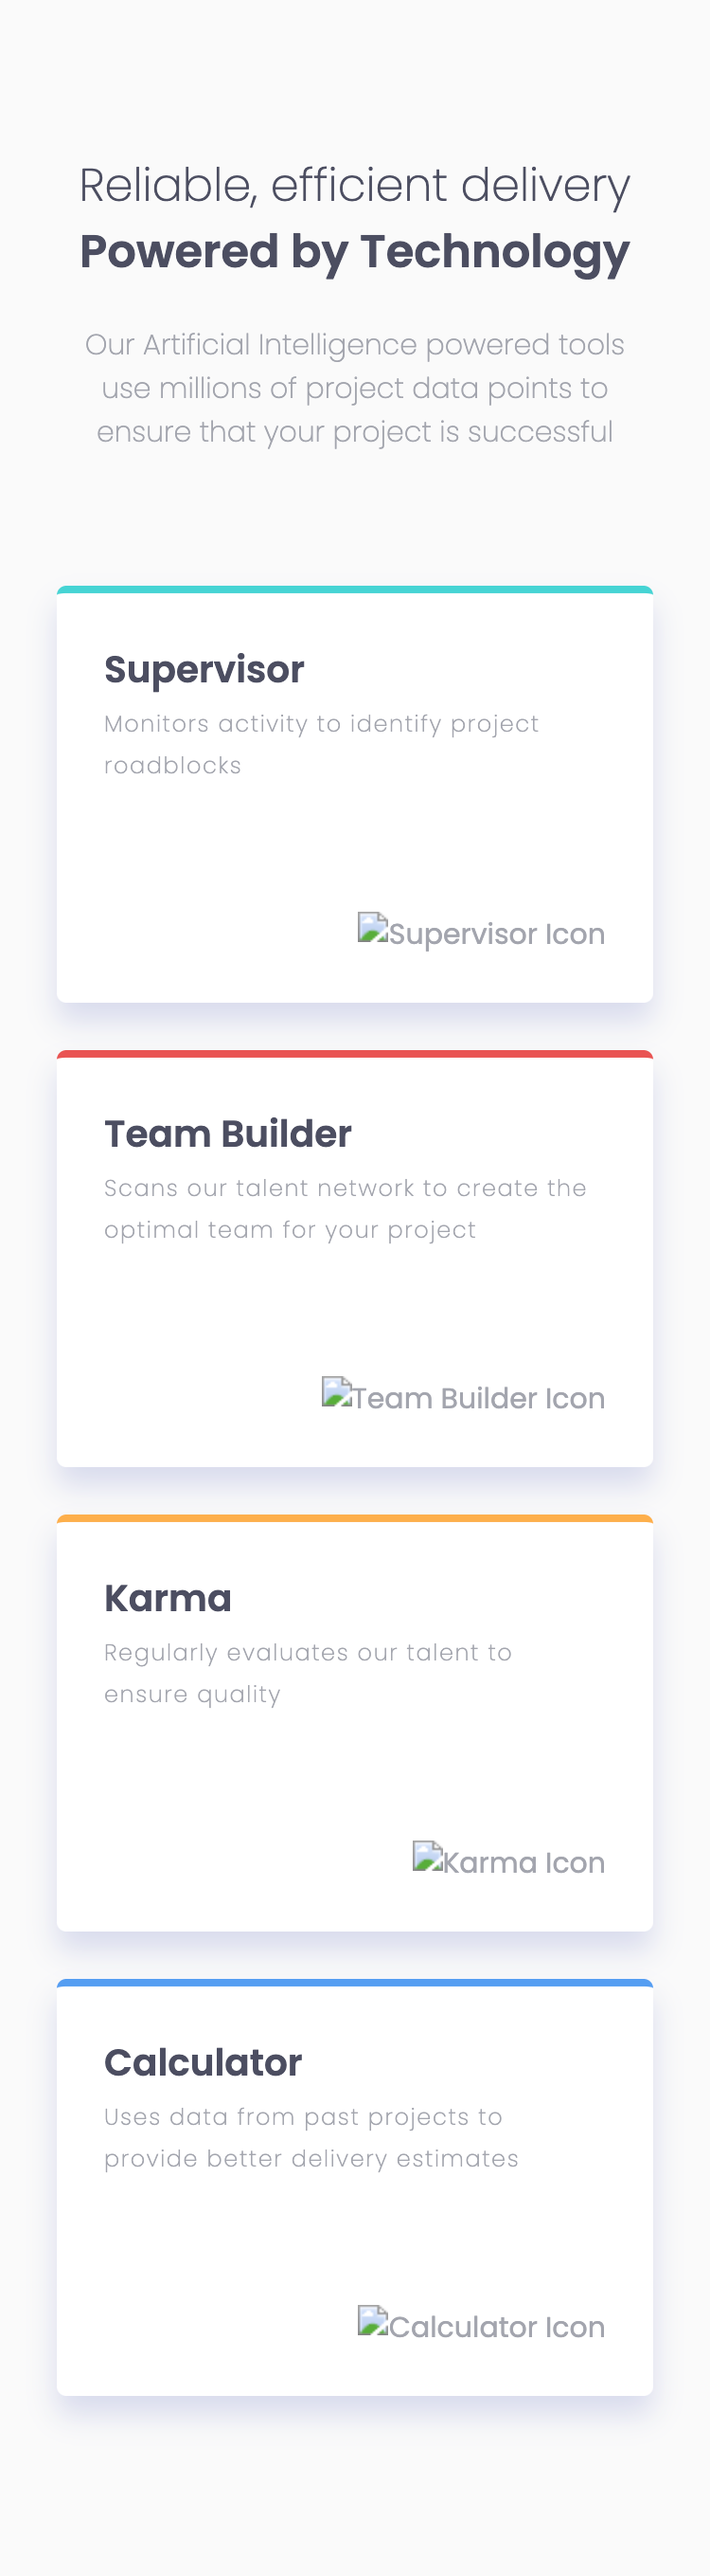
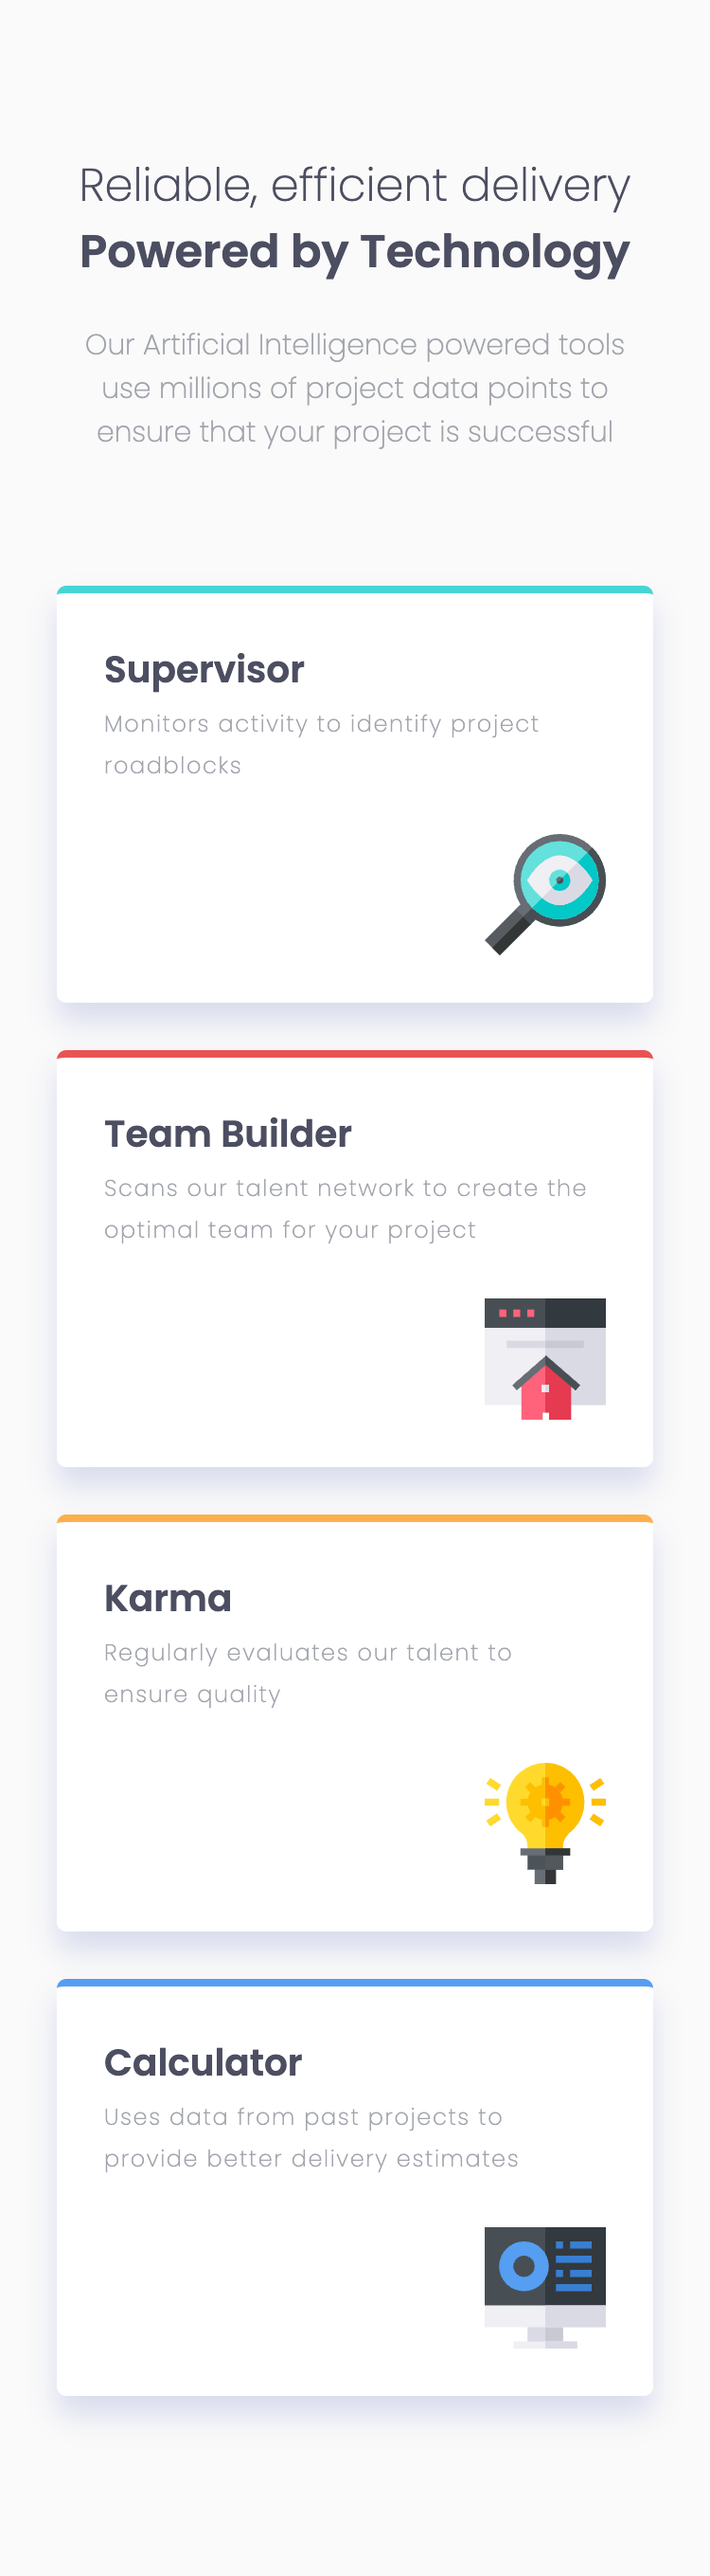
Fix image path and screenshot

diff --git a/index.html b/index.html
@@ -74,7 +74,7 @@
           </div>
           <div class="icon-section">
             <img
-              src="source/mages/icon-calculator.svg"
+              src="source/images/icon-calculator.svg"
               alt="Calculator Icon"
               class="icon"
             />
